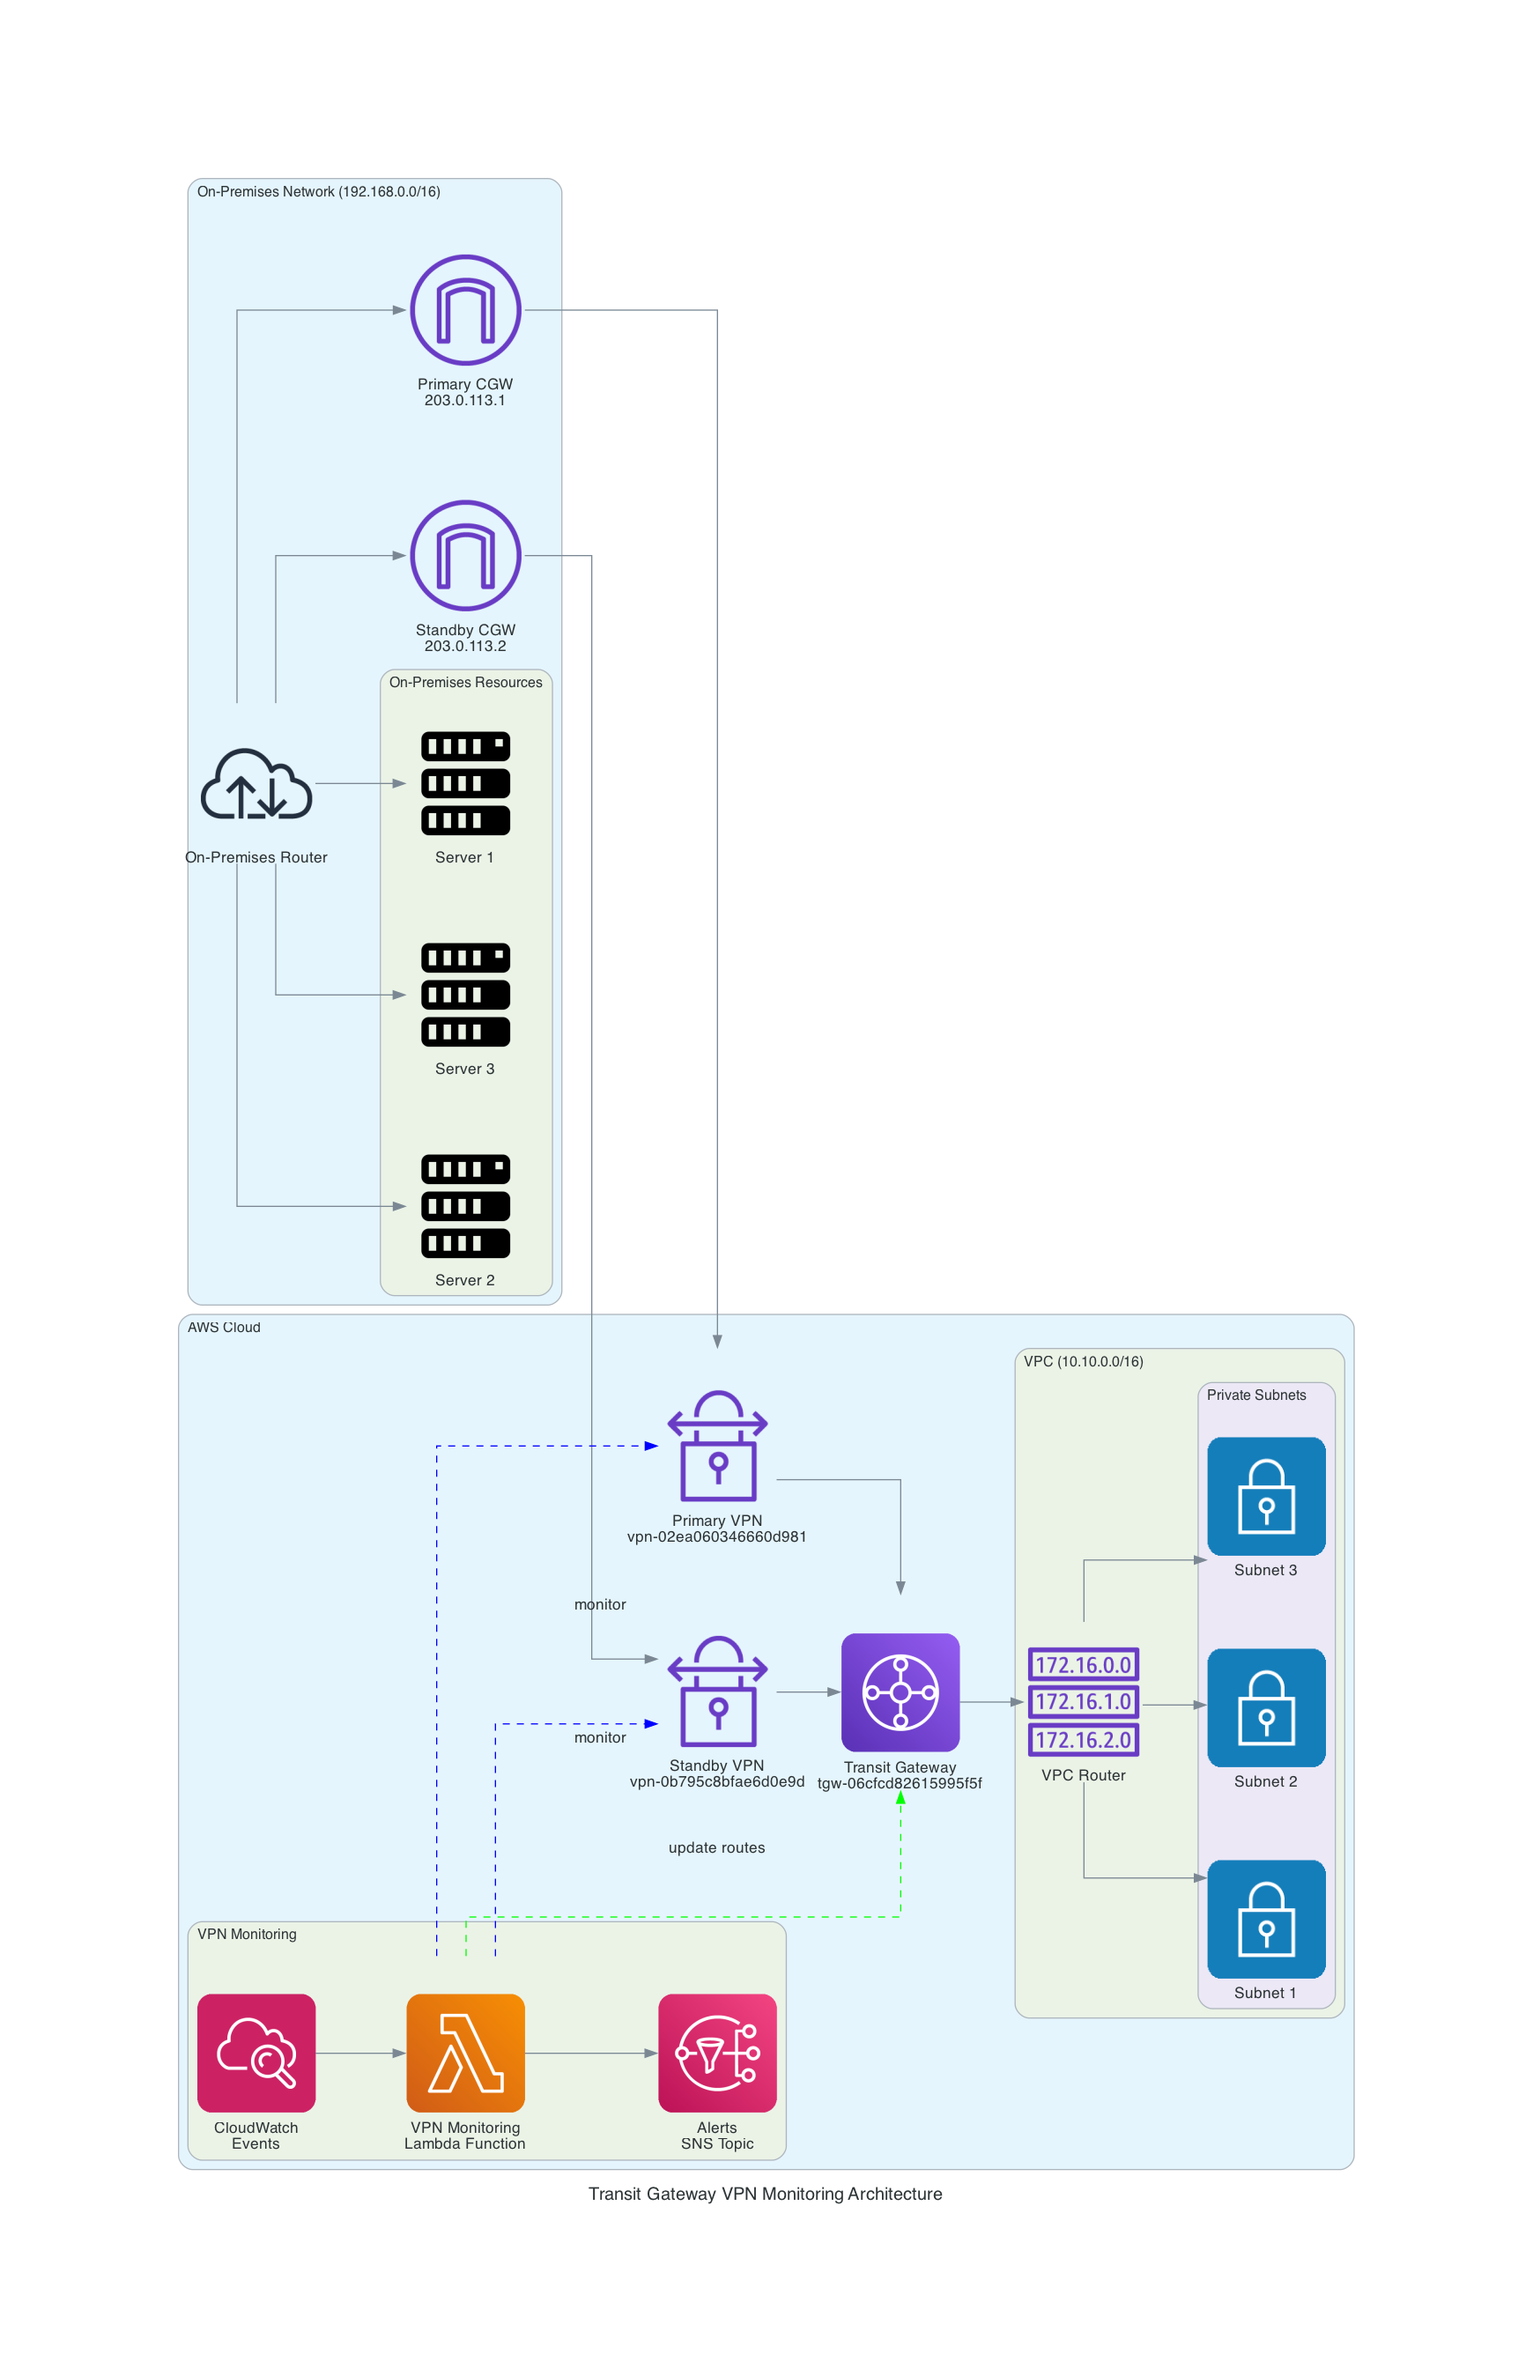
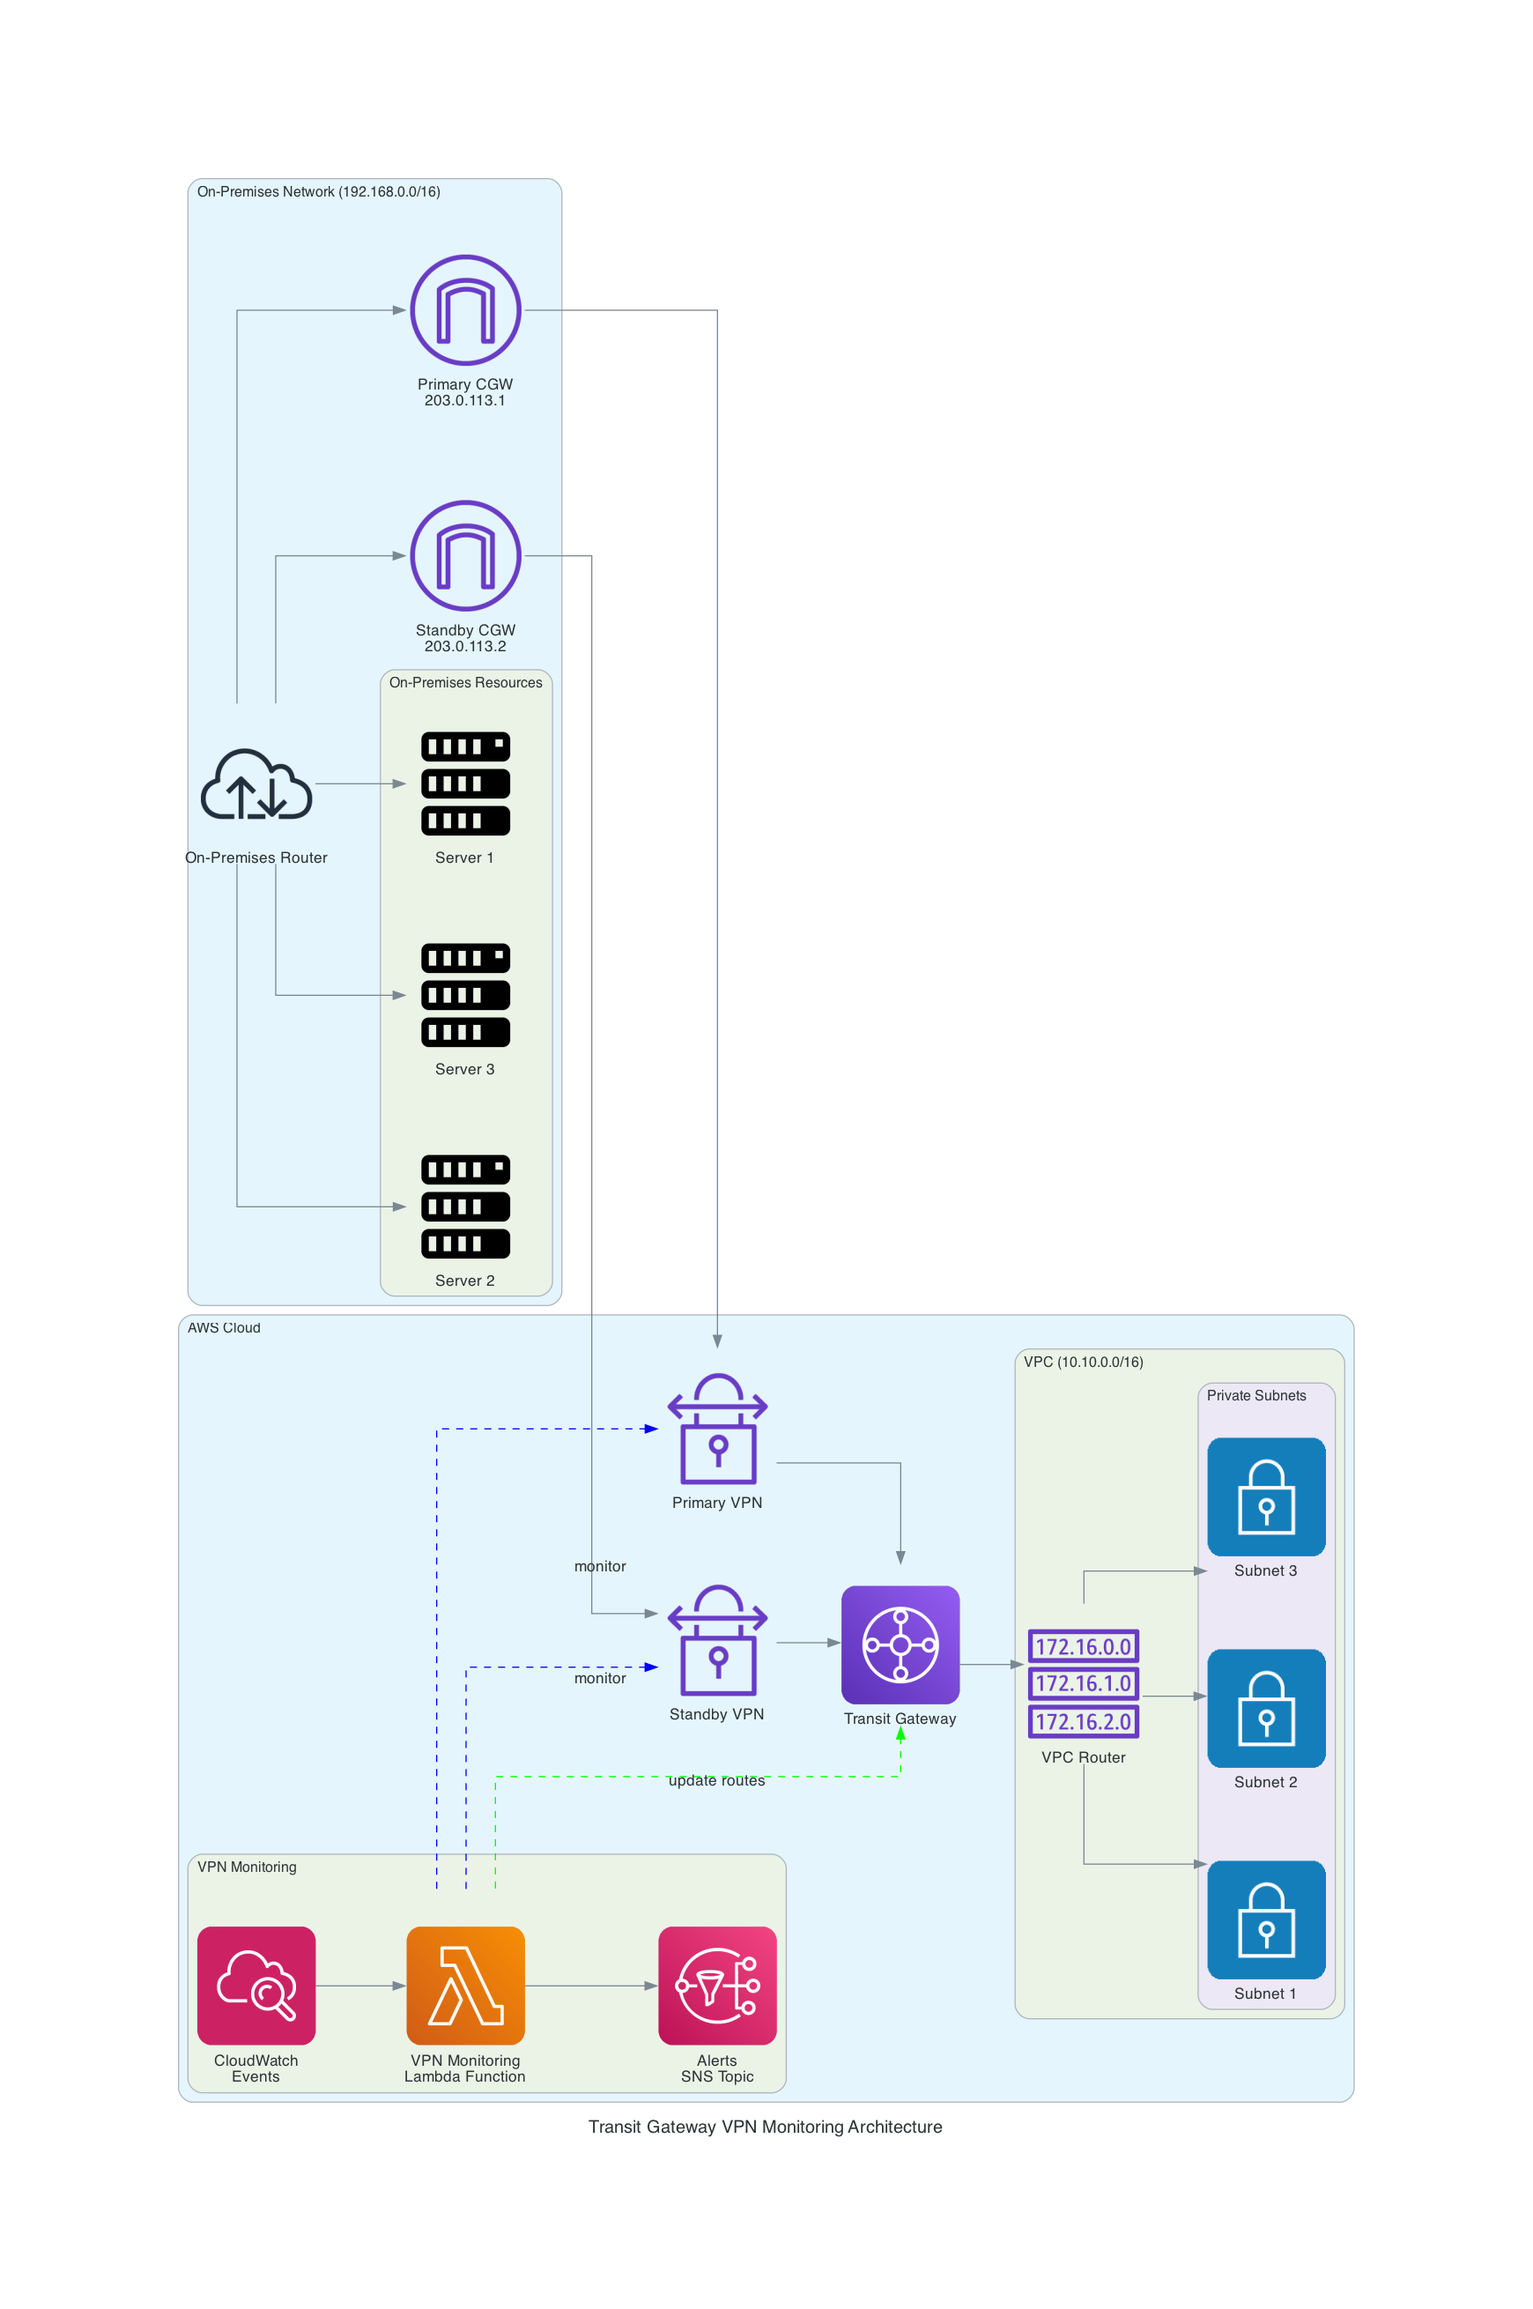
Clean up repository and remove AWS account-specific information

diff --git a/tgw-vpn-diagram.py b/tgw-vpn-diagram.py
@@ -25,10 +25,10 @@ with Diagram("Transit Gateway VPN Monitoring Architecture", show=True, direction
     # AWS Cloud components
     with Cluster("AWS Cloud"):
         # Transit Gateway and VPN connections
-        tgw = TransitGateway("Transit Gateway\ntgw-06cfcd82615995f5f")
+        tgw = TransitGateway("Transit Gateway")
         
-        primary_vpn = VpnConnection("Primary VPN\nvpn-02ea060346660d981")
-        standby_vpn = VpnConnection("Standby VPN\nvpn-0b795c8bfae6d0e9d")
+        primary_vpn = VpnConnection("Primary VPN")
+        standby_vpn = VpnConnection("Standby VPN")
         
         primary_cgw >> primary_vpn
         standby_cgw >> standby_vpn
